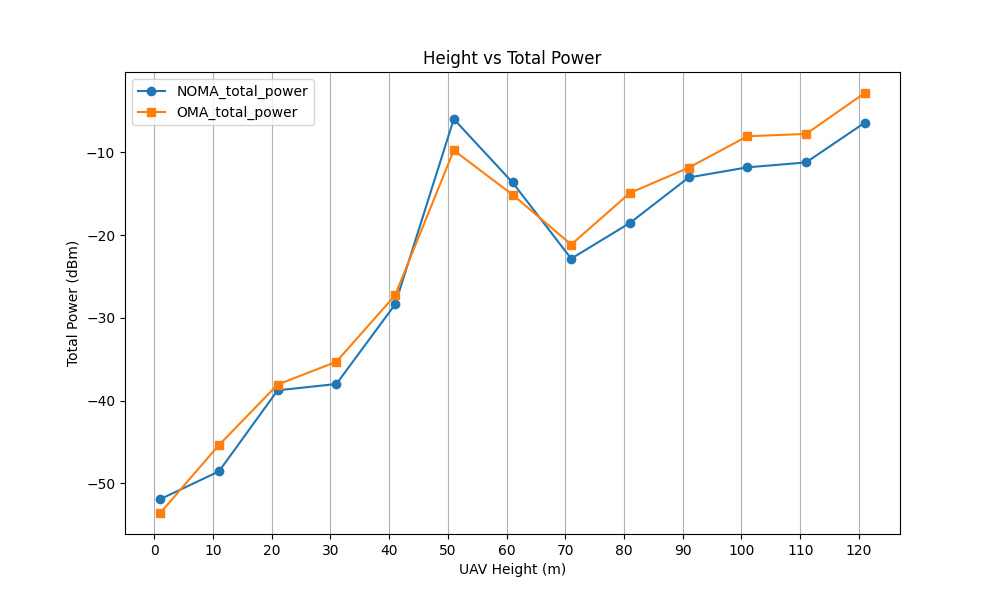
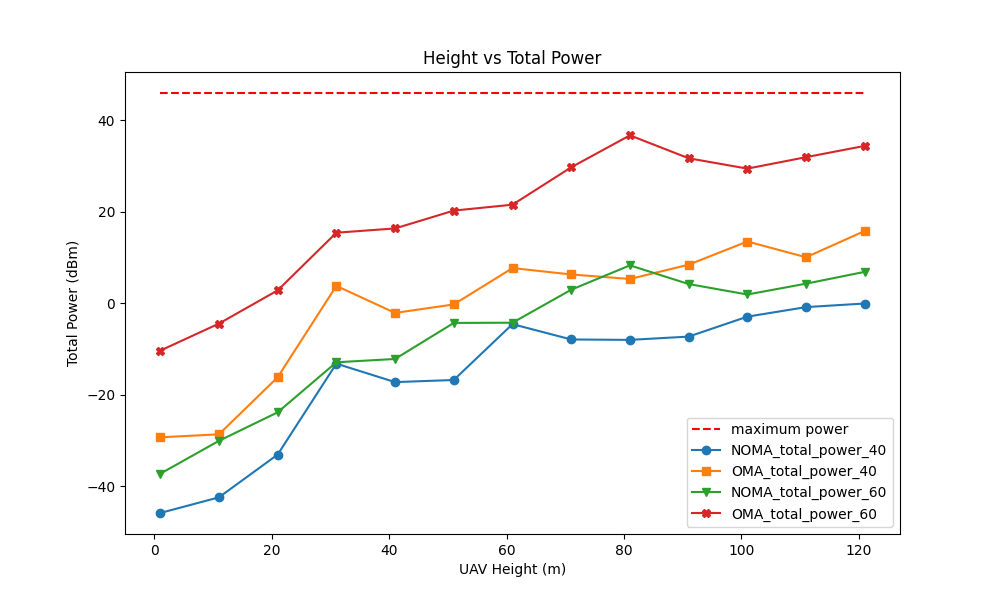
added 40 and 60 users in height vs power graph and added maximum power line

diff --git a/compare.py b/compare.py
@@ -97,7 +97,7 @@ def simulate(no_users, height=None):
             )
     total_power_noma_dbm = 10 * math.log10(total_power_noma)
     if(total_power_noma_dbm > uav['max_power']):
-        print(f"PowerConstraintError(NOMA): required power {total_power_noma_dbm} dBm > avilable power {uav['max_power']} dBm for {no_users} users")
+        print(f"PowerConstraintError(NOMA): required power {total_power_noma_dbm} dBm > avilable power {uav['max_power']} dBm \nfor\n\t users={no_users}\n\t height={height} m\n")
     
     # Calculate power efficiency of NOMA
     pe_noma = 10 * math.log10(sum(th_data_rate) * 1e6/total_power_noma)
@@ -118,7 +118,7 @@ def simulate(no_users, height=None):
             total_power_oma += (10 ** (power_user[i] / 10)) * num_prb_per_user
     total_power_oma_dbm = 10 * math.log10(total_power_oma)
     if(total_power_oma_dbm > uav['max_power']):
-        print(f"PowerConstraintError(OMA): required power {total_power_oma_dbm} dBm > avilable power {uav['max_power']} dBm for {no_users} users")
+        print(f"PowerConstraintError(OMA): required power {total_power_oma_dbm} dBm > avilable power {uav['max_power']} dBm \nfor\n\t users={no_users}\n\t height={height} m\n")
 
     # Calculate power efficiency of OMA
     pe_oma = 10 * math.log10(sum(th_data_rate) * 1e6/total_power_oma)
@@ -136,7 +136,7 @@ if __name__== '__main__':
     pes_noma = list()
     pes_oma = list()
 
-    for i in range(4, 81, 4):
+    for i in range(20, 101, 20):
         (total_power_noma, total_power_oma, pe_noma, pe_oma, _) = simulate(i, 40)
         no_of_users.append(i)
         total_powers_noma.append(total_power_noma)
@@ -169,25 +169,44 @@ if __name__== '__main__':
     print(f"Data written to {numberOfUsers_vs_power} successfully!")
 
     # For plotting Height vs Power Efficiency
-
     heights = list()
-    h_total_powers_noma = list()
-    h_total_powers_oma = list()
-    h_pes_noma = list()
-    h_pes_oma = list()
-    h_data = list()
+
+    # Height vs Power with 40 users
+    h_total_powers_noma_40 = list()
+    h_total_powers_oma_40 = list()
+    h_pes_noma_40 = list()
+    h_pes_oma_40 = list()
+    h_data_40 = list()
 
     for h in range(uav['min_height'], uav['max_height']+1, 10):
-        (h_total_power_noma, h_total_power_oma, h_pe_noma, h_pe_oma, h_db) = simulate(20, h)
+        (h_total_power_noma_40, h_total_power_oma_40, h_pe_noma_40, h_pe_oma_40, h_db_40) = simulate(40, h)
         heights.append(h)
-        h_total_powers_noma.append(h_total_power_noma)
-        h_total_powers_oma.append(h_total_power_oma)
-        h_pes_noma.append(h_pe_noma)
-        h_pes_oma.append(h_pe_oma)
+        h_total_powers_noma_40.append(h_total_power_noma_40)
+        h_total_powers_oma_40.append(h_total_power_oma_40)
+        h_pes_noma_40.append(h_pe_noma_40)
+        h_pes_oma_40.append(h_pe_oma_40)
 
         # For plotting Average value of Height vs Channel Gain
-        h_db.insert(0, h)
-        h_data.append(h_db)
+        h_db_40.insert(0, h)
+        h_data_40.append(h_db_40)
+
+    # Height vs Power with 60 users
+    h_total_powers_noma_60 = list()
+    h_total_powers_oma_60 = list()
+    h_pes_noma_60 = list()
+    h_pes_oma_60 = list()
+    h_data_60 = list()
+
+    for h in range(uav['min_height'], uav['max_height']+1, 10):
+        (h_total_power_noma_60, h_total_power_oma_60, h_pe_noma_60, h_pe_oma_60, h_db_60) = simulate(60, h)
+        h_total_powers_noma_60.append(h_total_power_noma_60)
+        h_total_powers_oma_60.append(h_total_power_oma_60)
+        h_pes_noma_60.append(h_pe_noma_60)
+        h_pes_oma_60.append(h_pe_oma_60)
+
+        # For plotting Average value of Height vs Channel Gain
+        h_db_60.insert(0, h)
+        h_data_60.append(h_db_60)
     
 
 
@@ -197,18 +216,30 @@ if __name__== '__main__':
    # Write data to CSV
     with open(height_vs_powerEfficiency, mode='w', newline='') as file:
         writer = csv.writer(file)
-      
+
         # Write the header
-        writer.writerow(['height', 'NOMA_total_power', 'OMA_total_power', 'NOMA_power_efficiency', 'OMA_power_efficiency'])
+        writer.writerow(['height', 
+                         'NOMA_total_power_40', 
+                         'NOMA_total_power_60', 
+                         'OMA_total_power_40', 
+                         'OMA_total_power_60', 
+                         'NOMA_power_efficiency_40', 
+                         'NOMA_power_efficiency_60', 
+                         'OMA_power_efficiency_40',
+                         'OMA_power_efficiency_60'])
         
         # Write the data rows
         for i in range(len(heights)):
             writer.writerow([
                 heights[i],
-                h_total_powers_noma[i],
-                h_total_powers_oma[i],
-                h_pes_noma[i],
-                h_pes_oma[i]
+                h_total_powers_noma_40[i],
+                h_total_powers_noma_60[i],
+                h_total_powers_oma_40[i],
+                h_total_powers_oma_60[i],
+                h_pes_noma_40[i],
+                h_pes_noma_60[i],
+                h_pes_oma_40[i],
+                h_pes_oma_60[i]
             ])
 
     print(f"Data written to {height_vs_powerEfficiency} successfully!")
@@ -220,7 +251,7 @@ if __name__== '__main__':
     # Write the data to a CSV file
     with open(height_vs_channelGain, 'w', newline='') as file:
         writer = csv.writer(file)
-        writer.writerows(h_data)
+        writer.writerows(h_data_40)
 
     print(f"Data written to {height_vs_channelGain} successfully!")
         

diff --git a/plot_height_vs_power.py b/plot_height_vs_power.py
@@ -7,24 +7,25 @@ data = pd.read_csv(csv_file_name)
 
 # Plot 1: Height vs NOMA_avg_power and OMA_avg_power
 plt.figure(figsize=(10, 6))
-plt.plot(data['height'], data['NOMA_total_power'], label='NOMA_total_power', marker='o')
-plt.plot(data['height'], data['OMA_total_power'], label='OMA_total_power', marker='s')
+plt.plot(data['height'], [46]*len(data['height']), 'r--', label='maximum power')
+plt.plot(data['height'], data['NOMA_total_power_40'], label='NOMA_total_power_40', marker='o')
+plt.plot(data['height'], data['OMA_total_power_40'], label='OMA_total_power_40', marker='s')
+plt.plot(data['height'], data['NOMA_total_power_60'], label='NOMA_total_power_60', marker='v')
+plt.plot(data['height'], data['OMA_total_power_60'], label='OMA_total_power_60', marker='X')
 plt.xlabel('UAV Height (m)')
 plt.ylabel('Total Power (dBm)')
 plt.title('Height vs Total Power')
 plt.legend()
-plt.gca().set_xticks(range(0, max(data['height']) + 1, 10)) # set vertical gridlines at multiples of 4
-plt.grid(which='both', axis='x')
 plt.savefig('Fig_Height_vs_Total_Power.png')
 
 # Plot 2: Height vs NOMA_power_efficiency and OMA_power_efficiency
 plt.figure(figsize=(10, 6))
-plt.plot(data['height'], data['NOMA_power_efficiency'], label='NOMA_power_efficiency', marker='o')
-plt.plot(data['height'], data['OMA_power_efficiency'], label='OMA_power_efficiency', marker='s')
+plt.plot(data['height'], data['NOMA_power_efficiency_40'], label='NOMA_power_efficiency_40', marker='o')
+plt.plot(data['height'], data['OMA_power_efficiency_40'], label='OMA_power_efficiency_40', marker='s')
+plt.plot(data['height'], data['NOMA_power_efficiency_60'], label='NOMA_power_efficiency_60', marker='v')
+plt.plot(data['height'], data['OMA_power_efficiency_60'], label='OMA_power_efficiency_60', marker='X')
 plt.xlabel('UAV Height (m)')
 plt.ylabel('Power Efficiency (dBm)')
 plt.title('Height vs Power Efficiency')
 plt.legend()
-plt.gca().set_xticks(range(0, max(data['height']) + 1, 10)) # set vertical gridlines at multiples of 4
-plt.grid(which='both', axis='x')
 plt.savefig('Fig_Height_vs_Power_Efficiency.png')

diff --git a/plot_user_vs_power.py b/plot_user_vs_power.py
@@ -7,15 +7,13 @@ data = pd.read_csv(csv_file_name)
 
 # Plot 1: Number of Users vs NOMA_avg_power and OMA_avg_power
 plt.figure(figsize=(10, 6))
+plt.plot(data['number_of_users'], [46]*len(data['number_of_users']), 'r--', label='maximum power')
 plt.plot(data['number_of_users'], data['NOMA_total_power'], label='NOMA_avg_power', marker='o')
 plt.plot(data['number_of_users'], data['OMA_total_power'], label='OMA_avg_power', marker='s')
 plt.xlabel('Number of Users')
 plt.ylabel('Average Power (dBm)')
 plt.title('Number of Users vs Total Power')
 plt.legend()
-plt.gca().set_xticks(range(0, max(data['number_of_users']) + 1, 4)) # set vertical gridlines at multiples of 4
-plt.grid(which='both', axis='x')
-plt.grid(True)
 plt.savefig('Fig_Users_vs_TotalPower.png')
 
 # Plot 2: Number of Users vs NOMA_power_efficiency and OMA_power_efficiency
@@ -26,8 +24,5 @@ plt.xlabel('Number of Users')
 plt.ylabel('Power Efficiency (dBm)')
 plt.title('Number of Users vs Power Efficiency')
 plt.legend()
-plt.gca().set_xticks(range(0, max(data['number_of_users']) + 1, 4)) # set vertical gridlines at multiples of 4
-plt.grid(which='both', axis='x')
-plt.grid(True)
 plt.savefig('Fig_Users_vs_PowerEfficiency.png')
 

diff --git a/inputs.py b/inputs.py
@@ -4,7 +4,7 @@ uav = {
     'service_classes': [1, 3, 5, 20],   # data rate in different service classes
     'min_height': 1,                   # minimum height of the UAV
     'max_height': 130,                  # maximum height of the UAV
-    'service_classes': [1, 3, 5, 20],   # data rate in different service classes
+    'service_classes': [1, 3, 5, 25],   # data rate in different service classes
     'max_power': 46                     # maximum transmit power of the UAV, in dBm    
 }
 
